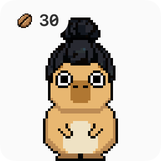
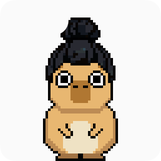
Outfit ribbon without prices; drop the redundant Get the app header button

Changed region(s): [[0.2484, 0.0621, 0.3727, 0.1863], [0.0932, 0.0621, 0.2174, 0.1863]]

diff --git a/index.html b/index.html
@@ -231,10 +231,6 @@
   nav{display:flex;align-items:center;gap:18px}
   nav a{color:var(--ink);text-decoration:none;font-size:14px;font-weight:700}
   nav a:hover{text-decoration:underline}
-  nav .get{
-    background:var(--ink);color:var(--cream);padding:8px 14px;border-radius:12px;
-  }
-  nav .get:hover{text-decoration:none;transform:translateY(-1px)}
   @media (max-width:560px){ nav .hide-sm{display:none} }
 
   /* ---------- buttons ---------- */
@@ -517,10 +513,9 @@
   <div class="wrap">
     <a class="logo" href="#top"><img class="px" src="/bean-normal.png" width="128" height="128" alt="" aria-hidden="true">BEAN</a>
     <nav>
-      <a class="hide-sm" href="#features">Features</a>
-      <a class="hide-sm" href="#faq">FAQ</a>
+      <a href="#features">Features</a>
+      <a href="#faq">FAQ</a>
       <a class="hide-sm" href="/privacy.html">Privacy</a>
-      <a class="get" href="https://apps.apple.com/us/app/bean-moving-bean/id6769936531">Get the app</a>
     </nav>
   </div>
 </header>
